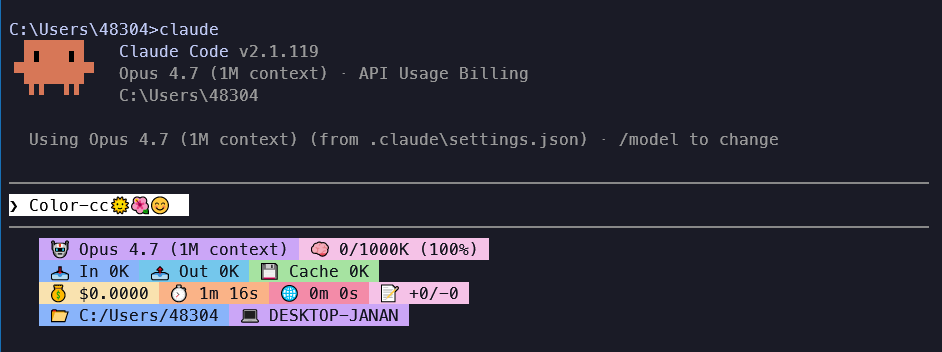
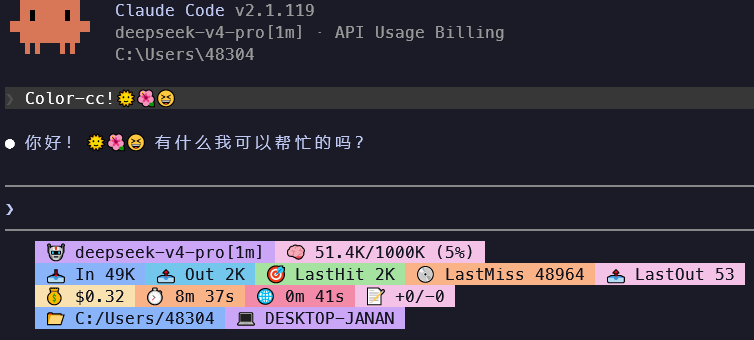
feat: upgrade dashboard to v1.2.0 layout with cache hit/miss tracking
- Add LastHit/LastMiss/LastOut segments to line 2 for real-time per-request metrics
- Add Gitee mirror installation support with auto network detection
- Add 更新说明.md for Chinese users
- Bump all scripts to 1.2.0

diff --git a/更新说明.md b/更新说明.md
@@ -1,0 +1,61 @@
+# color-cc 更新说明
+
+## v1.2.0 — 2026-05-01
+
+### 🎯 仪表板布局升级
+
+第二行新增三个实时指标段，方便查看当前请求的 Token 详情：
+
+| 旧布局 | 新布局 |
+|--------|--------|
+| 📥 In / 📤 Out / 💾 Cache | 📥 In / 📤 Out / 🎯 LastHit / 💿 LastMiss / 📤 LastOut |
+
+- **🎯 LastHit** — 当前请求缓存命中量（从缓存读取的 Token）
+- **💿 LastMiss** — 当前请求未命中量（新输入的 Token + 新写入缓存的 Token）
+- **📤 LastOut** — 当前请求输出 Token 量
+
+### 🇨🇳 Gitee 国内镜像
+
+安装脚本现在会自动检测 GitHub 是否可达，不可达时自动切换到 Gitee 镜像。
+
+**GitHub 安装（默认）：**
+```powershell
+irm https://raw.githubusercontent.com/JananZZZ/color-cc/main/install.ps1 | iex
+```
+
+**Gitee 安装（国内镜像）：**
+```powershell
+irm https://gitee.com/JananZZZ/Color-cc/raw/main/install.ps1 | iex
+```
+
+> Linux/macOS 用户将 `iex` 替换为 `bash`。
+
+### 🔧 Bug 修复
+
+- 修复网络检测逻辑：不再把 HTTP 404 误判为连接失败
+- 修复 `troubleshooting.en.md` 中错误的 `username` 占位符
+
+### 📦 已有用户如何更新
+
+已安装用户只需重新运行安装命令即可获取最新仪表板布局：
+
+```powershell
+irm https://raw.githubusercontent.com/JananZZZ/color-cc/main/install.ps1 | iex
+```
+
+安装脚本会自动备份旧配置，然后下载最新主题。
+
+---
+
+## v1.1.0 — 2025-01
+
+- 修复 Token 百分比渲染错误
+- 优化 Git 段显示
+- 添加双语文档支持（中/英）
+
+## v1.0.0 — 2024
+
+- 首次发布
+- Cosmic 主题 4 行仪表板
+- 一键安装
+- cc-switch 多账号持久化

diff --git a/CHANGELOG.md b/CHANGELOG.md
@@ -2,6 +2,25 @@
 
 All notable changes to color-cc will be documented in this file.
 
+## [1.2.0] - 2026-05-01
+
+### Added
+- **Gitee 镜像支持**: 安装脚本自动检测网络环境，GitHub 不可达时自动切换到 Gitee 镜像
+- **Gitee 手动安装命令**: README 和文档中添加 Gitee 直链安装方式
+- **安装网络诊断**: 故障排除文档新增 Gitee 404 和下载失败排查说明
+
+### Changed
+- **仪表板布局升级**: 第二行新增 🎯 LastHit、💿 LastMiss、📤 LastOut 三个实时指标段
+  - `LastHit`: 当前请求缓存命中量
+  - `LastMiss`: 当前请求未命中量（输入 + 新缓存写入）
+  - `LastOut`: 当前请求输出 Token 量
+- **版本号**: 所有脚本和配置统一升级到 1.2.0
+
+### Fixed
+- **网络检测误判**: PowerShell 改用 TCP Socket 测试替代 HTTP 请求检测，避免 HTTP 404 被误判为不可达
+- **Bash 检测修复**: curl 移除 `-f` 标志，防止非 2xx 响应被当作连接失败
+- **troubleshooting.en.md**: 修复安装 URL 中错误的 `username` 占位符
+
 ## [1.1.0] - 2025-01-XX
 
 ### Fixed
